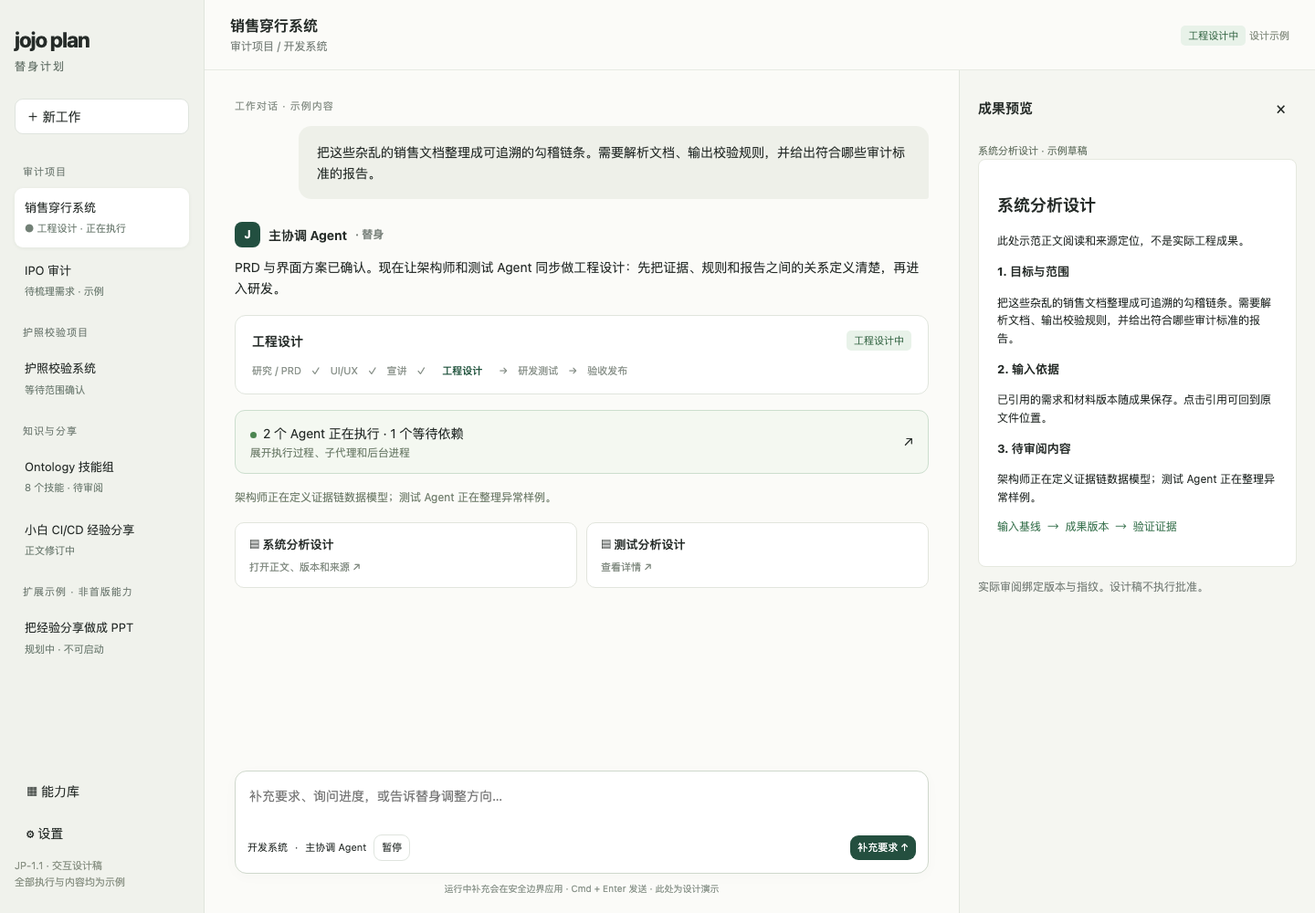
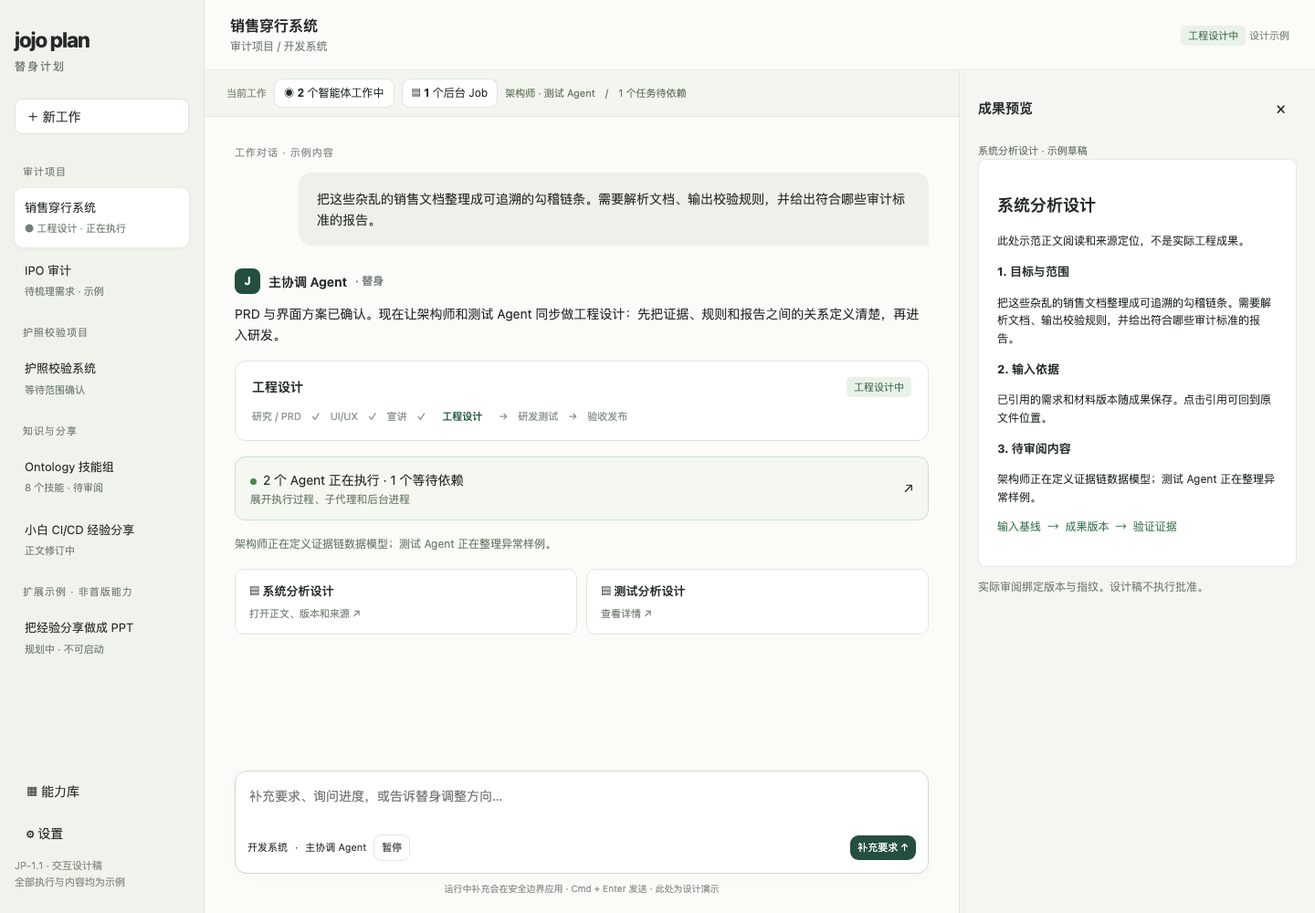
Add persistent agent and background job activity indicators

diff --git a/docs/design/screenboard.html b/docs/design/screenboard.html
@@ -1,10 +1,10 @@
 <!doctype html><html lang="zh-CN"><meta charset="utf-8"><meta name="viewport" content="width=device-width,initial-scale=1"><title>jojo plan · 对话工作区 JP-1.1</title>
 <style>
 *{box-sizing:border-box}body{margin:0;font:14px/1.65 -apple-system,BlinkMacSystemFont,"PingFang SC",sans-serif;color:#252b28;background:#fbfbf8}button,input,textarea,select{font:inherit}button{cursor:pointer;color:inherit}button:focus-visible,textarea:focus-visible,select:focus-visible{outline:3px solid #438c72;outline-offset:3px}button{border:1px solid #dfe4de;background:white;border-radius:9px;padding:7px 12px}button:hover{background:#eef3ee}.app{display:flex;height:100vh;min-height:550px;overflow:hidden}.side{width:224px;flex-shrink:0;background:#f0f2ec;border-right:1px solid #e0e5dc;padding:25px 16px;display:flex;flex-direction:column}.brand{font-size:23px;font-weight:750;letter-spacing:-1px}.brand small{display:block;font-size:12px;letter-spacing:2px;font-weight:400;color:#67746b}.new{margin:25px 0 18px;width:100%;text-align:left}.caption{color:#758078;font-size:11px;letter-spacing:1px;margin:14px 9px 7px}.tasknav{border:0;background:transparent;width:100%;text-align:left;padding:11px;border-radius:9px;margin:2px 0;font-size:13px}.tasknav.active{background:white;box-shadow:0 1px 4px #233b2710}.tasknav small{display:block;color:#728076;font-size:11px;margin-top:3px}.sidebottom{margin-top:auto;display:grid;gap:7px;padding-top:20px}.sidebottom button{text-align:left;background:transparent;border-color:transparent}.main{flex:1;min-width:0;display:flex;flex-direction:column;position:relative}.top{height:77px;flex-shrink:0;border-bottom:1px solid #e7eae3;padding:15px 28px;display:flex;justify-content:space-between;align-items:center;gap:12px}.title{font-weight:650;font-size:16px}.sub{font-size:12px;color:#7c847e}.tag{display:inline-block;font-size:11px;padding:2px 8px;border-radius:5px;background:#e8f2e9;color:#3c6b4b}.tag.amber{background:#faf0d8;color:#956529}.layout{flex:1;min-height:0;display:flex;position:relative}.conversation{flex:1;min-width:0;display:flex;flex-direction:column}.timeline{flex:1;overflow:auto;padding:30px max(24px,calc((100% - 760px)/2)) 22px}.eyebrow{color:#8b938b;font-size:11px;letter-spacing:1px}.user{margin:13px 0 25px 70px;background:#eef0e9;border-radius:14px 14px 3px 14px;padding:17px 20px;font-size:14px}.agenthead{display:flex;align-items:center;gap:9px;font-weight:650;margin:18px 0 10px}.avatar{display:inline-grid;place-items:center;background:#224f40;color:#fff;border-radius:8px;width:28px;height:28px;font-size:12px}.message p{margin:9px 0 16px}.plan{border:1px solid #e0e5dd;border-radius:12px;background:white;padding:16px 18px;margin:17px 0}.planline{display:flex;justify-content:space-between;gap:12px;align-items:center}.steps{display:flex;gap:7px;margin-top:12px;flex-wrap:wrap;color:#8b938c;font-size:11px}.steps b{color:#245640}.running{border:1px solid #ccdece;border-radius:11px;background:#f4f8f1;padding:13px 16px;display:flex;align-items:center;justify-content:space-between;gap:12px;width:100%;text-align:left}.running small{display:block;color:#71806e}.dot{display:inline-block;width:7px;height:7px;background:#4c8651;border-radius:50%;margin-right:7px}.artifacts{display:grid;grid-template-columns:1fr 1fr;gap:10px;margin:17px 0}.artifact{text-align:left;padding:13px 15px;border:1px solid #e2e5dd;border-radius:10px;background:white}.artifact strong{display:block;font-size:13px}.artifact small{display:block;color:#808a80;font-size:11px;margin-top:5px}.update{color:#73806f;font-size:12px;margin:16px 0}.composerwrap{padding:10px max(24px,calc((100% - 760px)/2)) 19px}.composer{border:1px solid #cfd8cc;border-radius:13px;background:white;box-shadow:0 3px 16px #23432806;padding:13px}.composer textarea{border:0;width:100%;resize:none;outline:0;background:transparent;min-height:43px}.composebar{display:flex;align-items:center;gap:8px;font-size:11px;flex-wrap:wrap}.composebar button,.composebar select{font-size:11px;padding:4px 8px}.composebar select{border:0;background:#f2f4ee;border-radius:6px;max-width:160px}.send{margin-left:auto!important;background:#244f3f!important;color:white!important;border:0}.hint{font-size:10px;color:#8b958c;text-align:center;margin-top:8px}.inspector{display:none;width:390px;flex-shrink:0;border-left:1px solid #e0e5dd;background:#f5f6f1;overflow:auto;padding:20px}.inspector.open{display:block}.inshead{display:flex;justify-content:space-between;align-items:center;margin-bottom:15px}.inshead h3{font-size:15px;margin:0}.close{border:0;background:transparent;font-size:18px}.tree{border:1px solid #e0e4da;border-radius:10px;background:white;padding:10px;margin:14px 0}.tree button{display:block;text-align:left;width:100%;border:0;font-size:12px;background:transparent;padding:9px}.tree button.child{padding-left:25px}.tree button.selected{background:#eaf1e5;color:#366246}.tree small{display:block;color:#92998d}.detailtitle{font-size:14px;margin:20px 0 8px}.kv{display:grid;grid-template-columns:65px 1fr;gap:7px;font-size:12px;margin:15px 0}.kv dt{color:#7f887a}.kv dd{margin:0;overflow-wrap:anywhere}.log{background:#24332c;color:#d8e4d6;border-radius:9px;padding:13px;font:11px/1.9 ui-monospace,monospace;white-space:pre-wrap;overflow-wrap:anywhere}.notebox{background:#fbf3e1;border:1px solid #eee0bc;border-radius:8px;padding:10px 12px;font-size:12px;color:#81653c;margin:12px 0}.screen{display:none;overflow:auto;padding:36px;flex:1}.screen.active{display:block}.screen h1{font-size:28px;margin:15px 0}.lead{color:#717d70}.start{max-width:720px;margin:40px auto}.types{display:grid;grid-template-columns:repeat(3,1fr);gap:12px;margin:26px 0}.types button{text-align:left;padding:19px}.types small{display:block;color:#8a9386}.library{display:grid;grid-template-columns:repeat(2,minmax(0,1fr));gap:16px;max-width:900px}.card{padding:22px;background:white;border:1px solid #e0e5da;border-radius:12px}.card h3{margin:0 0 8px}.card p{font-size:13px;color:#717d70}.mocknotice{font-size:11px;color:#8b9386}.paper{background:white;border:1px solid #e5e8df;border-radius:8px;padding:20px;font-size:12px}.paper h2{font-size:18px}.paper h3{font-size:13px}.paper code{color:#3d7552}.deck{background:#e5eadf;border-radius:7px;padding:24px 18px;margin-top:14px;aspect-ratio:16/9}.deck h2{margin:0;font-size:24px;color:#244d3a}.deck p{font-size:11px}.statusline{font-size:11px;color:#6a7768}.hidden{display:none!important}@media(max-width:1250px){.inspector.open{position:absolute;right:0;top:0;bottom:0;width:min(440px,85%);z-index:4;box-shadow:-14px 0 50px #20352918}.side{width:200px}.timeline,.composerwrap{padding-left:28px;padding-right:28px}}@media(max-width:750px){.side{width:150px;padding:15px 8px}.top{padding:12px}.timeline,.composerwrap{padding-left:15px;padding-right:15px}.user{margin-left:15px}.artifacts,.types,.library{grid-template-columns:1fr}.screen{padding:20px}.top .mocknotice{display:none}}
-</style>
+.activitybar{display:flex;align-items:center;gap:8px;flex-wrap:wrap;padding:9px 24px;border-bottom:1px solid #e1e6dc;background:#f3f6ef;flex-shrink:0}.activitybar button{font-size:12px;padding:5px 10px}.activitybar .scope{font-size:11px;color:#7a8775}.activitybar .people{font-size:11px;color:#64755d}.jobcard{background:white;border:1px solid #dce3d5;border-radius:10px;padding:15px;margin:12px 0}.jobcard h4{margin:0 0 7px}.jobcard p{font-size:12px;color:#73806b}.side{overflow-y:auto}</style>
 <div class="app"><aside class="side"><div class="brand">jojo plan<small>替身计划</small></div><button class="new" data-screen="UI-01">＋ 新工作</button><div class="caption">审计项目</div><button class="tasknav active" data-task="system">销售穿行系统<small>● 工程设计 · 正在执行</small></button><button class="tasknav" data-task="ipo">IPO 审计<small>待梳理需求 · 示例</small></button><div class="caption">护照校验项目</div><button class="tasknav" data-task="passport">护照校验系统<small>等待范围确认</small></button><div class="caption">知识与分享</div><button class="tasknav" data-task="skill">Ontology 技能组<small>8 个技能 · 待审阅</small></button><button class="tasknav" data-task="document">小白 CI/CD 经验分享<small>正文修订中</small></button><div class="caption">扩展示例 · 非首版能力</div><button class="tasknav" data-task="presentation">把经验分享做成 PPT<small>规划中 · 不可启动</small></button><div class="sidebottom"><button data-screen="UI-04">▦ 能力库</button><button data-screen="UI-05">⚙ 设置</button><div class="mocknotice">JP-1.1 · 交互设计稿<br>全部执行与内容均为示例</div></div></aside><main class="main"><header class="top"><div><div class="title" id="worktitle">销售穿行系统</div><div class="sub" id="worksubtitle">审计项目 / 开发系统</div></div><div><span class="tag" id="state">工程设计中</span> <span class="mocknotice">设计示例</span></div></header>
 <section class="screen" id="UI-01"><div class="start"><div class="eyebrow">一段对话，一起把工作做完</div><h1>这次想完成什么？</h1><p class="lead">给替身一个目标。它会整理计划、加载技能，并在关键阶段与你确认。</p><div class="types"><button data-task="skill">制作 Skill<small>研究 → 方法 → 可复用技能</small></button><button data-task="document">写文档<small>大纲 → 内容 → 证据核查</small></button><button data-task="system">开发系统<small>产品 → 设计 → 研发交付</small></button></div><div class="composer"><textarea aria-label="新的工作目标" placeholder="例如：根据这些销售单据，开发一个能追溯勾稽链条的审计系统"></textarea><div class="composebar"><span>材料、期望成果也可以稍后补充</span><button class="send" id="example">查看示例工作</button></div></div><p class="mocknotice">实际产品会先显示启动计划、预算和权限；本稿仅演示界面结构。</p></div></section>
-<div class="layout" id="UI-02"><section class="conversation"><div class="timeline" id="timeline" aria-label="工作对话"></div><div class="composerwrap"><div class="composer"><textarea id="input" aria-label="补充工作要求" placeholder="补充要求、询问进度，或告诉替身调整方向…"></textarea><div class="composebar"><span id="typechip">开发系统</span><span>·</span><span>主协调 Agent</span><button id="pause">暂停</button><button class="send" id="send">补充要求 ↑</button></div></div><div class="hint" id="hint">运行中补充会在安全边界应用 · Cmd + Enter 发送 · 此处为设计演示</div></div></section><aside class="inspector" id="UI-03" aria-label="工作详情"></aside></div>
+<div class="layout" id="UI-02"><section class="conversation"><div class="activitybar" id="activitybar" aria-label="当前工作执行状态"></div><div class="timeline" id="timeline" aria-label="工作对话"></div><div class="composerwrap"><div class="composer"><textarea id="input" aria-label="补充工作要求" placeholder="补充要求、询问进度，或告诉替身调整方向…"></textarea><div class="composebar"><span id="typechip">开发系统</span><span>·</span><span>主协调 Agent</span><button id="pause">暂停</button><button class="send" id="send">补充要求 ↑</button></div></div><div class="hint" id="hint">运行中补充会在安全边界应用 · Cmd + Enter 发送 · 此处为设计演示</div></div></section><aside class="inspector" id="UI-03" aria-label="工作详情"></aside></div>
 <section class="screen" id="UI-04"><div class="eyebrow">能力库 / 工作包</div><h1>同一个工作区，不同的工作方法</h1><p class="lead">工作包组合阶段、角色、技能与工具。新工作类型不会增加一排导航。</p><div class="library"><div class="card"><h3>制作 Skill <span class="tag">首版</span></h3><p>调研、编写、验证与审阅。技能和技能组保留版本。</p><button data-task="skill">查看示例</button></div><div class="card"><h3>写文档 <span class="tag">首版</span></h3><p>大纲、正文、来源核查，多格式交付。</p><button data-task="document">查看示例</button></div><div class="card"><h3>开发系统 <span class="tag">首版</span></h3><p>产品 → UX → 工程设计 → 研发测试 → 综合验收 → 发布。</p><button data-task="system">查看示例</button></div><div class="card"><h3>写 PPT <span class="tag amber">规划中</span></h3><p>需求 → 故事线 → 逐页内容 → 排版渲染 → 审阅。待接入 PPTX 生成和渲染能力。</p><button data-task="presentation">查看扩展说明</button></div></div></section>
 <section class="screen" id="UI-05"><div class="eyebrow">应用设置</div><h1>模型、工具与本地数据</h1><p class="lead">配置一次，工作包按能力使用；缺能力时回到这里处理。</p><div class="library"><div class="card"><h3>模型连接</h3><p>自带服务地址、协议和模型；各角色可选择模型。密钥只显示配置状态。</p><span class="tag amber">示例 · 尚未配置</span></div><div class="card"><h3>工具与执行环境</h3><p>搜索 / OCR / 容器 / 发布目标分别检测。PPT 生成和渲染为后续扩展。</p></div><div class="card"><h3>权限与预算</h3><p>材料发送范围、网络、文件、运行额度；每项授权均有明确作用范围。</p></div><div class="card"><h3>数据与备份</h3><p>本地项目、备份恢复、归档和导出。删除应用副本不删除原始材料。</p></div></div></section>
 </main></div>
@@ -12,16 +12,18 @@
 const $=s=>document.querySelector(s);let current='system',selectedAgent='architect',lastTrigger=null;
 const data={system:{title:'销售穿行系统',sub:'审计项目 / 开发系统',type:'开发系统',state:'工程设计中',user:'把这些杂乱的销售文档整理成可追溯的勾稽链条。需要解析文档、输出校验规则，并给出符合哪些审计标准的报告。',reply:'PRD 与界面方案已确认。现在让架构师和测试 Agent 同步做工程设计：先把证据、规则和报告之间的关系定义清楚，再进入研发。',plan:'工程设计',steps:'研究 / PRD　✓　UI/UX　✓　宣讲　✓　<b>工程设计</b>　→　研发测试　→　验收发布',run:'2 个 Agent 正在执行 · 1 个等待依赖',activity:'架构师正在定义证据链数据模型；测试 Agent 正在整理异常样例。',a:'系统分析设计',b:'测试分析设计'},ipo:{title:'IPO 审计',sub:'审计项目 / 开发系统',type:'开发系统',state:'待梳理需求',user:'在审计项目中开展 IPO 审计相关工作。',reply:'先明确此次工作的目标、适用范围和交付物，再选择需要加载的流程和技能。当前仅展示项目归属，不预设具体审计要求。',plan:'需求梳理',steps:'<b>明确目标与范围</b>　→　确定交付物　→　制定计划',run:'尚未启动 · 当前没有活跃 Agent',activity:'IPO 审计与销售穿行属于同一个审计项目，各自保留工作对话和成果。',a:'需求范围 · 待整理',b:'交付清单 · 待明确'},passport:{title:'护照校验系统',sub:'护照校验项目 / 开发系统',type:'开发系统',state:'等待范围确认',user:'客户会传来一张带人脸的护照页图片，需要判断它是不是假的。',reply:'我会先研究单张图片能支持哪些判断。图片篡改风险、版式异常和证件真伪不是同一个结论，先明确输出边界，再让团队设计系统。',plan:'研究与需求范围',steps:'<b>研究 / PRD</b>　→　UI/UX　→　工程设计　→　研发测试',run:'待你确认 · 当前没有活跃 Agent',activity:'建议输出可疑点与证据不足状态；正式范围需在 PRD 审阅卡确认。',a:'能力范围研究',b:'待确认问题'},skill:{title:'Ontology 技能组',sub:'知识与分享 / 制作 Skill',type:'制作 Skill',state:'待审阅',user:'把从模糊需求开展 ontology 分析的方法做成一组可复用技能。',reply:'8 个技能的草稿已整理成一个版本化技能组。每个技能说明输入、输出和适用范围；下一步审阅组内依赖与验证结果。',plan:'技能组审阅',steps:'需求　✓　调研　✓　编写　✓　验证　→　<b>审阅</b>',run:'无活跃 Agent · 等待技能组审阅',activity:'这里的数量和状态仅演示界面，不表示真实技能已经生成或验证。',a:'Ontology 技能组',b:'技能验证报告'},document:{title:'小白 CI/CD 经验分享',sub:'知识与分享 / 写文档',type:'写文档',state:'正文修订中',user:'整理一份小白也能看懂的 CI/CD 经验分享，讲清楚我遇到的问题和解决办法。',reply:'我会保留你提供的真实经历，把流水线概念放在具体例子里解释。写作 Agent 正在调整内容，缺少原始经历的部分会标为待补充。',plan:'正文与来源核查',steps:'需求　✓　大纲　✓　<b>正文修订</b>　→　核查　→　审阅',run:'1 个 Agent 正在执行',activity:'写作 Agent：将部署失败案例改写为步骤和排查清单。',a:'经验分享 · 草稿',b:'来源与待补充项'},presentation:{title:'把经验分享做成 PPT',sub:'扩展示例 / 规划中的工作包',type:'写 PPT · 规划中',state:'尚不可启动',user:'把这份 CI/CD 经验分享做成面向新人培训的 PPT，保留可编辑版本和讲稿。',reply:'这是一种新的工作类型，仍使用这条对话、执行详情和成果预览。接入 PPTX 生成与渲染能力后，替身才能按下面的流程工作；当前仅展示扩展方案。',plan:'拟议 PPT 工作流程',steps:'需求　→　故事线　→　逐页内容　→　排版渲染　→　审阅',run:'缺少 2 项能力 · 没有真实执行',activity:'需要接入 pptx.generate 与 pptx.render，并通过可编辑性和页面渲染检查。',a:'故事线 · 示例',b:'页面预览 · 示例'}};
 function show(id){$('.layout').classList.toggle('hidden',id!=='UI-02');document.querySelectorAll('.screen').forEach(x=>x.classList.toggle('active',x.id===id));if(id!=='UI-02'){$('#worktitle').textContent=id==='UI-01'?'开始新的工作':id==='UI-04'?'能力库':'设置';$('#worksubtitle').textContent='jojo plan · 替身计划';$('#state').textContent='设计示例';}close();}
-function task(key){current=key;show('UI-02');const d=data[key];$('#worktitle').textContent=d.title;$('#worksubtitle').textContent=d.sub;$('#state').textContent=d.state;$('#typechip').textContent=d.type;$('#input').value='';$('#pause').textContent='暂停';$('#pause').disabled=['presentation','skill','passport','ipo'].includes(key);$('#send').disabled=key==='presentation';$('#hint').textContent=key==='presentation'?'扩展设计示例 · 当前不可启动 PPT 生成':'运行中补充会在安全边界应用 · Cmd + Enter 发送 · 此处为设计演示';document.querySelectorAll('.tasknav').forEach(x=>x.classList.toggle('active',x.dataset.task===key));$('#timeline').innerHTML=`<div class="eyebrow">工作对话 · 示例内容</div><div class="user">${d.user}</div><div class="agenthead"><span class="avatar">J</span>主协调 Agent <span class="sub">· 替身</span></div><div class="message"><p>${d.reply}</p><div class="plan"><div class="planline"><strong>${d.plan}</strong><span class="tag">${d.state}</span></div><div class="steps">${d.steps}</div></div><button class="running" data-inspect="execution"><span><span class="dot"></span>${d.run}<small>展开执行过程、子代理和后台进程</small></span><span>↗</span></button><div class="update">${d.activity}</div><div class="artifacts"><button class="artifact" data-inspect="artifact"><strong>▤ ${d.a}</strong><small>打开正文、版本和来源 ↗</small></button><button class="artifact" data-inspect="secondary"><strong>▤ ${d.b}</strong><small>查看详情 ↗</small></button></div></div>`;}
+function task(key){current=key;show('UI-02');const d=data[key];const agents=key==='system'?2:key==='document'?1:0;const jobs=key==='system'?1:0;$('#activitybar').innerHTML=`<span class="scope">当前工作</span><button data-inspect="execution">◉ <b>${agents}</b> 个智能体工作中</button><button data-inspect="jobs">▤ <b>${jobs}</b> 个后台 Job</button><span class="people">${key==='system'?'架构师 · 测试 Agent　/　1 个任务待依赖':key==='document'?'写作 Agent':'暂无活跃执行'}</span>`;$('#worktitle').textContent=d.title;$('#worksubtitle').textContent=d.sub;$('#state').textContent=d.state;$('#typechip').textContent=d.type;$('#input').value='';$('#pause').textContent='暂停';$('#pause').disabled=['presentation','skill','passport','ipo'].includes(key);$('#send').disabled=key==='presentation';$('#hint').textContent=key==='presentation'?'扩展设计示例 · 当前不可启动 PPT 生成':'运行中补充会在安全边界应用 · Cmd + Enter 发送 · 此处为设计演示';document.querySelectorAll('.tasknav').forEach(x=>x.classList.toggle('active',x.dataset.task===key));$('#timeline').innerHTML=`<div class="eyebrow">工作对话 · 示例内容</div><div class="user">${d.user}</div><div class="agenthead"><span class="avatar">J</span>主协调 Agent <span class="sub">· 替身</span></div><div class="message"><p>${d.reply}</p><div class="plan"><div class="planline"><strong>${d.plan}</strong><span class="tag">${d.state}</span></div><div class="steps">${d.steps}</div></div><button class="running" data-inspect="execution"><span><span class="dot"></span>${d.run}<small>展开执行过程、子代理和后台进程</small></span><span>↗</span></button><div class="update">${d.activity}</div><div class="artifacts"><button class="artifact" data-inspect="artifact"><strong>▤ ${d.a}</strong><small>打开正文、版本和来源 ↗</small></button><button class="artifact" data-inspect="secondary"><strong>▤ ${d.b}</strong><small>查看详情 ↗</small></button></div></div>`;}
 function close(){const was=$('#UI-03').classList.contains('open');$('#UI-03').classList.remove('open');if(was&&lastTrigger?.isConnected)lastTrigger.focus();}
 function inspect(mode,trigger){lastTrigger=trigger||lastTrigger;const d=data[current];let content='';
-if(mode==='execution'){
+if(mode==='jobs'){content=current==='system'?`<div class="statusline">当前工作 · 1 运行 / 0 排队 / 0 待核实</div><div class="jobcard"><h4><span class="dot"></span>合成样例格式校验</h4><span class="tag">运行中 · 示例</span><p>发起：测试 Agent<br>工具：容器校验<br>后台执行器：sample-validator<br>最后活动：正在检查必填字段</p><div class="log">stdout: loaded 12 synthetic examples
+stdout: checking required fields…
+退出码：尚未产生</div></div><p class="sub">一个 Job 对应一次后台操作；其子进程不重复计数。完成后进入历史，结果未知时单独提示待核实。</p>`:`<div class="notebox">当前工作没有活跃后台 Job。</div><p class="sub">模型对话本身不计为后台 Job；后台导入、导出、容器命令或发布操作开始后显示在这里。</p>`;}else if(mode==='execution'){
  if(current==='system'){content=`<div class="statusline">工程设计 · 2 个活跃任务 · 示例</div><div class="tree"><button data-agent="coordinator">主协调 Agent <small>等待工程设计成果，继续处理你的补充</small></button><button class="child ${selectedAgent==='architect'?'selected':''}" data-agent="architect">↳ 架构师 · 定义证据链模型 <small>运行中 · 已调用 3 个工具</small></button><button class="child ${selectedAgent==='tester'?'selected':''}" data-agent="tester">↳ 测试 Agent · 设计异常样例 <small>运行中 · 验证进程正在执行</small></button><button class="child" data-agent="developer">↳ 开发 Agent <small>排队 · 等待工程基线</small></button></div>`;
  const details={architect:['架构师','梳理单据、证据链、规则与报告之间的数据关系。','模型配置 A / 版本 2','system-core@1.0.0','read_artifact(prd-v3) → 完成\nread_artifact(ux-v2) → 完成\nwrite_draft(data-model) → 完成\n等待模型返回下一段设计说明'],tester:['测试 Agent','使用合成单据校验异常样例格式；尚未运行应用测试。','模型配置 B / 版本 1','system-core@1.0.0','进程 sample-validator · 示例容器\nstdout: loaded 12 synthetic examples\nstdout: checking required fields…\n状态: running · 退出码: 未产生'],developer:['开发 Agent','工程基线尚未确认，当前没有启动模型或进程。','尚未启动','system-core@1.0.0','等待依赖，不存在后台进程。'],coordinator:['主协调 Agent','汇总结果、处理补充和检查阶段出口。','模型配置 A / 版本 2','system-core@1.0.0','没有常驻模型调用；正在等待子任务事件。']}[selectedAgent];content+=`<h4 class="detailtitle">${details[0]}</h4><p class="sub">${details[1]}</p><dl class="kv"><dt>输入</dt><dd>PRD v3 · UI/UX v2</dd><dt>模型</dt><dd>${details[2]}</dd><dt>技能</dt><dd>${details[3]}</dd><dt>用量</dt><dd>设计稿不提供真实计量</dd></dl><div class="log">${details[4]}</div><p class="sub">工具记录与简短说明；不展示隐藏推理。</p><button id="target">给此任务补充要求</button>`;
  }else{content=`<div class="notebox">${d.run}</div><h4>${d.plan}</h4><p>${d.activity}</p><div class="tree"><button>主协调 Agent<small>${d.state}</small></button>${current==='document'?'<button class="child">↳ 写作 Agent<small>修订正文 · 示例运行</small></button>':''}</div><p class="sub">实际产品仅展示真实创建的任务、尝试、工具和进程。</p>`;}}
 else if(current==='presentation'){content=`<div class="notebox">规划中的预览方式。下方是示意排版，不是已生成的 PPT 文件。</div><div class="deck"><div class="eyebrow">01 / 培训开场</div><h2>从一次提交<br>到一次可靠发布</h2><p>面向新人的 CI/CD 实践</p></div><dl class="kv"><dt>产物</dt><dd>故事线、逐页内容、PPTX、页面预览、讲稿</dd><dt>生成</dt><dd>待接入 PPTX 生成器</dd><dt>验证</dt><dd>待接入渲染器，检查缺图、遮挡、溢出</dd></dl>`;}
 else{content=`<div class="statusline">${mode==='secondary'?d.b:d.a} · 示例草稿</div><div class="paper"><h2>${mode==='secondary'?d.b:d.a}</h2><p>此处示范正文阅读和来源定位，不是实际工程成果。</p><h3>1. 目标与范围</h3><p>${d.user}</p><h3>2. 输入依据</h3><p>已引用的需求和材料版本随成果保存。点击引用可回到原文件位置。</p><h3>3. 待审阅内容</h3><p>${d.activity}</p><p><code>输入基线 → 成果版本 → 验证证据</code></p></div><p class="sub">实际审阅绑定版本与指纹。设计稿不执行批准。</p>`;}
-$('#UI-03').innerHTML=`<div class="inshead"><h3>${mode==='execution'?'执行详情':'成果预览'}</h3><button class="close" aria-label="关闭详情" id="close">×</button></div>${content}`;$('#UI-03').classList.add('open');$('#close').focus();}
+$('#UI-03').innerHTML=`<div class="inshead"><h3>${mode==='execution'?'执行详情':mode==='jobs'?'后台 Jobs':'成果预览'}</h3><button class="close" aria-label="关闭详情" id="close">×</button></div>${content}`;$('#UI-03').classList.add('open');$('#close').focus();}
 document.addEventListener('click',e=>{const b=e.target.closest('button');if(!b)return;if(b.dataset.task)task(b.dataset.task);if(b.dataset.screen)show(b.dataset.screen);if(b.dataset.inspect)inspect(b.dataset.inspect,b);if(b.id==='close')close();if(b.dataset.agent){selectedAgent=b.dataset.agent;inspect('execution');}if(b.id==='example')task('system');if(b.id==='target'){$('#input').value='给'+({architect:'架构师',tester:'测试 Agent',developer:'开发 Agent',coordinator:'主协调 Agent'}[selectedAgent])+'补充：';close();$('#input').focus();}if(b.id==='pause'){$('#hint').textContent='暂停流程演示：实际产品须等运行服务确认后，才能显示已暂停。';}if(b.id==='send')send();});
 function send(){const val=$('#input').value.trim();if(!val||current==='presentation')return;const el=document.createElement('div');el.className='user';el.textContent=val;$('#timeline').append(el);const note=document.createElement('div');note.className='statusline';note.textContent='设计演示 · 消息已展示；未连接后台，不代表已应用';$('#timeline').append(note);$('#input').value='';note.scrollIntoView({block:'nearest'});}
 document.addEventListener('keydown',e=>{if(e.key==='Escape')close();if(e.metaKey&&e.key==='Enter'&&!e.isComposing){e.preventDefault();send();}});task('system');

diff --git a/docs/design/visual-check.md b/docs/design/visual-check.md
@@ -7,3 +7,5 @@ JP-1.1｜2026-09-25。检查对象screenboard.html是静态交互设计稿，所
 截图：[主对话](conversation-workspace.png)、[Agent与进程](agent-inspector.png)、[成果阅读](artifact-review.png)、[PPT扩展](ppt-extension.png)。主对话、Agent与PPT截图已逐张查看，文字、内容层级和主操作可读。旧14页设计稿不再作为当前界面依据。
 
 未验证真实模型/进程、后台消息投递、完整焦点管理、200%缩放或安装。右侧覆盖面板的正式焦点约束需按T-48实现验收；静态稿展示结构不代表应用已开发。
+
+本轮追加：常驻执行栏显示当前工作的智能体和后台Job数量，后台Job入口可打开sample-validator示例日志；已随原浏览器检查重新运行。截图见[后台Jobs](background-jobs.png)。
